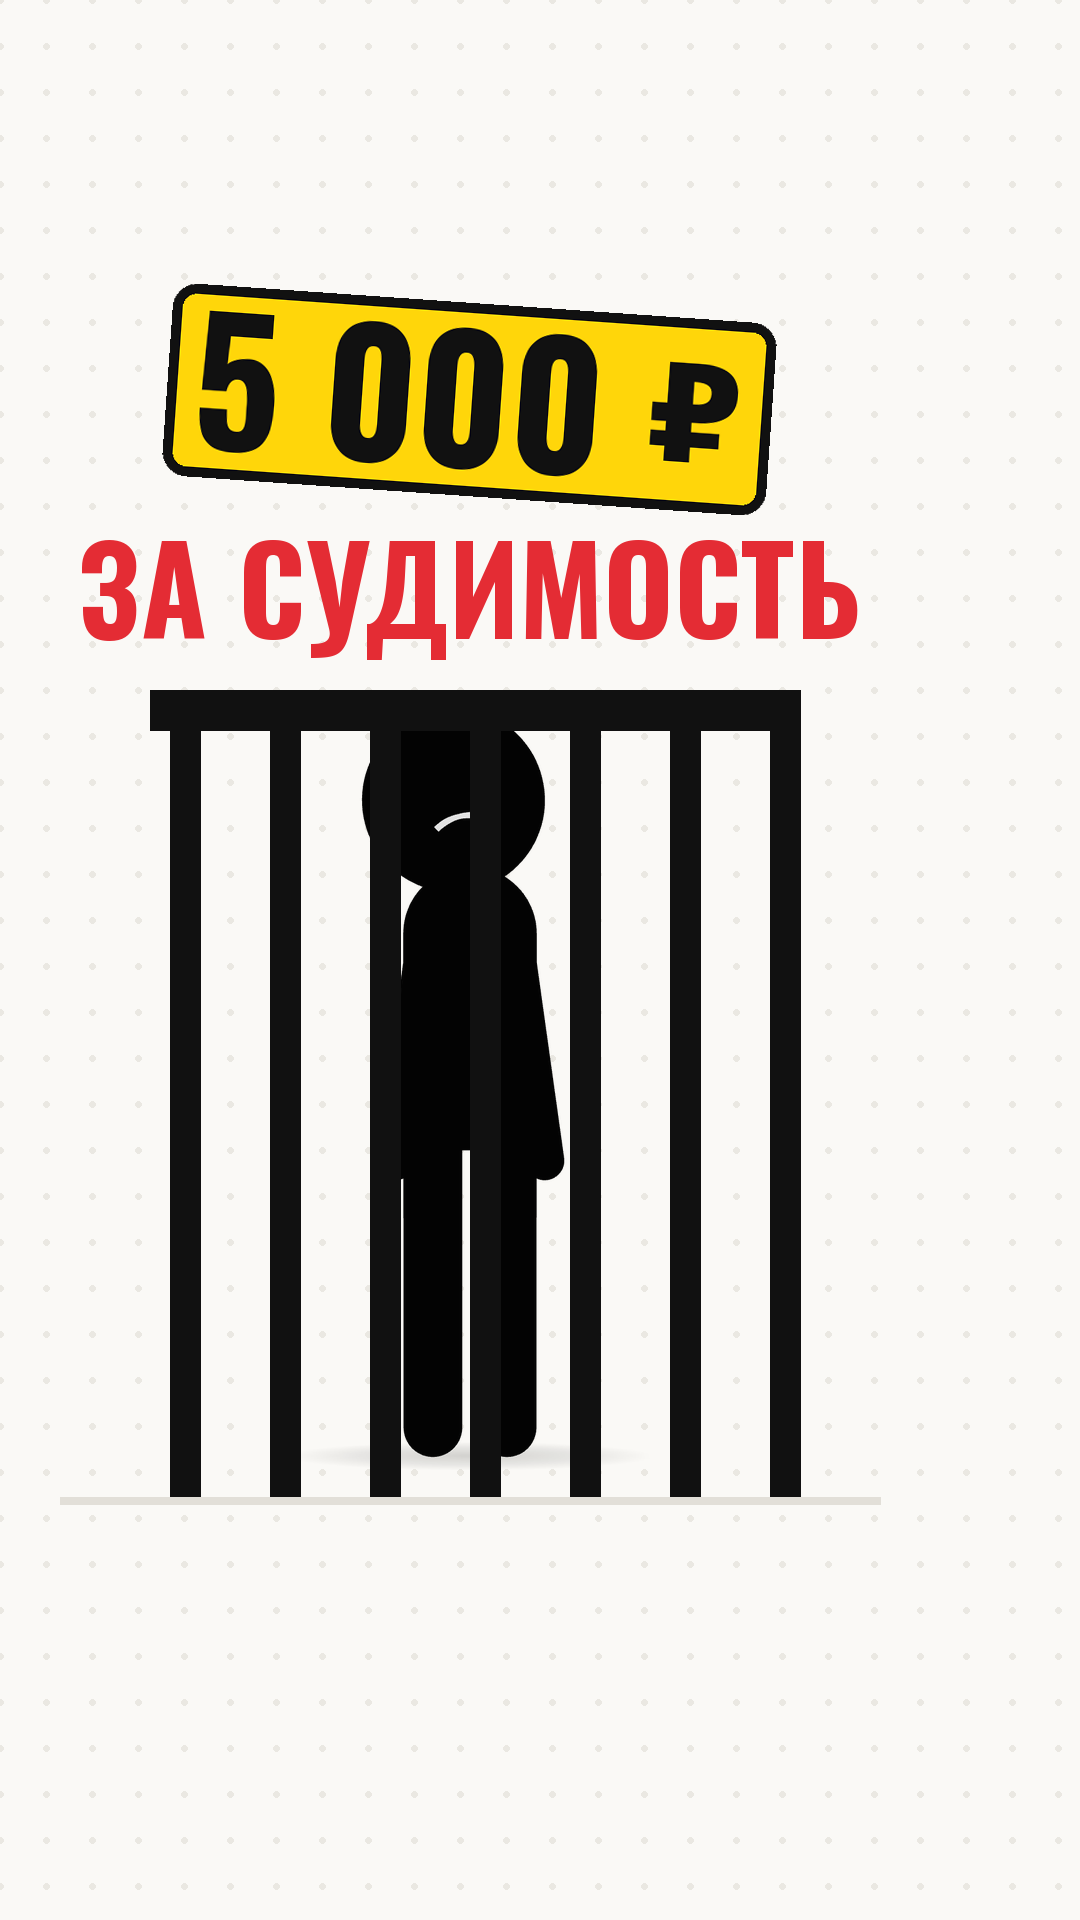
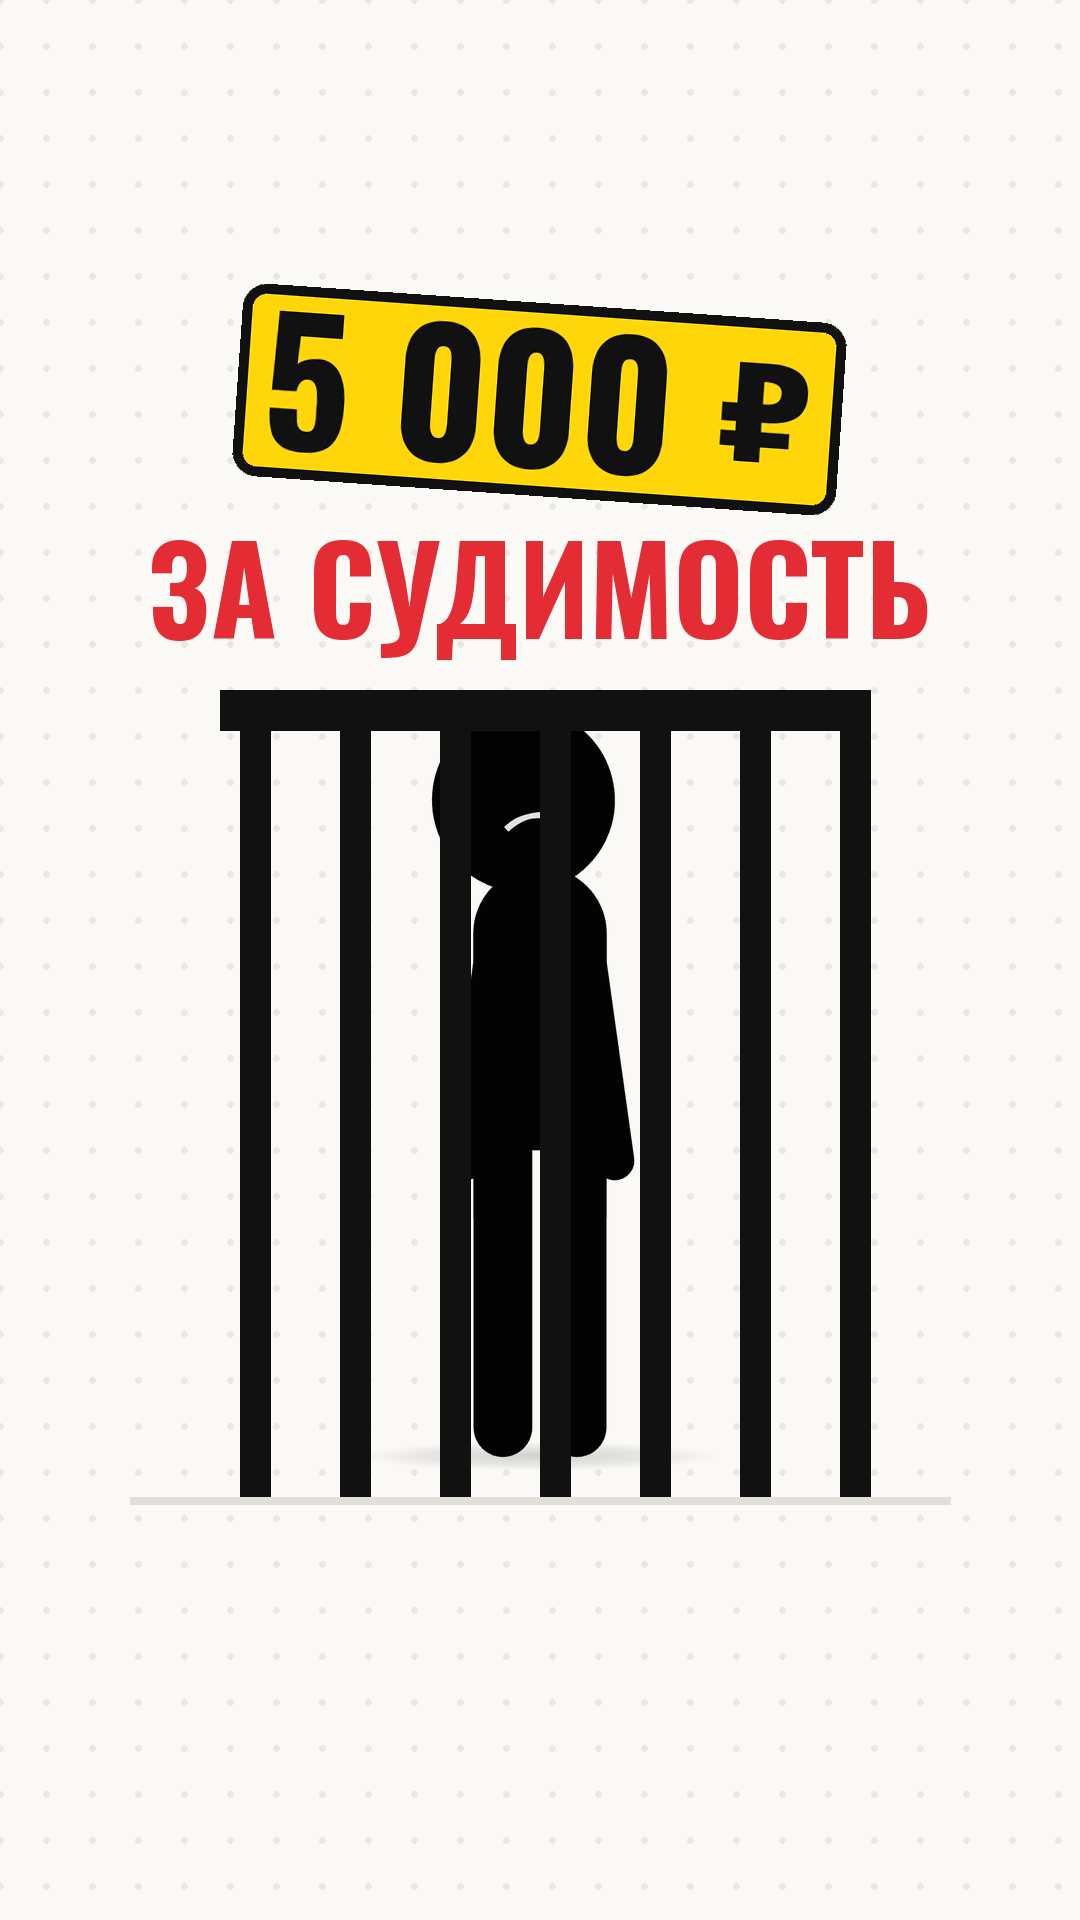
ne-tupi: «Последний барабан» v2 — всё строго по центру кадра
Claude-Session: https://claude.ai/code/session_01FderYxzHoNHH8UQfVKLAfR

Changed region(s): [[0.0611, 0.125, 0.8556, 0.7812]]

diff --git a/ne-tupi/render/drop/kod/compose_d.py b/ne-tupi/render/drop/kod/compose_d.py
@@ -441,7 +441,7 @@ def s_podvoh(C, u, t):
 def s_mln(C, u, t):
     d = ImageDraw.Draw(C); n = int(clamp(u / 1.6) * 900); rnd = random.Random(5)
     for j in range(n):
-        x = 40 + (j % 60) * 15.5 + rnd.random() * 4; y = 300 + (j // 60) * 24
+        x = 5 + (j % 60) * 15.5 + rnd.random() * 4; y = 300 + (j // 60) * 24
         if y > 690: break
         d.rounded_rectangle([x - 5, y, x + 5, y + 7], radius=2, fill=(40, 40, 44)); d.rectangle([x - 3, y + 2, x - 1, y + 4], fill=YEL)
     v = t - T('миллион'); val = roll(v, 0, 1_200_000, 0.9) if v > 0 else 0
@@ -556,8 +556,8 @@ def disc_img(text):
 D1 = 'ВСЕ ПЕРСОНАЖИ ВЫМЫШЛЕНЫ. РОЛИК ОСНОВАН НА ОТКРЫТЫХ\nИСТОЧНИКАХ И НЕ ЯВЛЯЕТСЯ ИНСТРУКЦИЕЙ'
 D2 = 'ВИДЕО ПРЕДУПРЕЖДАЕТ О МОШЕННИЧЕСКИХ СХЕМАХ.\nИСТОЧНИКИ — В ОПИСАНИИ'
 def disclaimer(F, t):
-    if t < 5.0: a = clamp(t / 0.3) * clamp((5.0 - t) / 0.4); put(F, disc_img(D1), 490, 1478, 1, 0, a)
-    elif t > DUR - 3.0: a = clamp((t - DUR + 3.0) / 0.3); put(F, disc_img(D2), 490, 1478, 1, 0, a)
+    if t < 5.0: a = clamp(t / 0.3) * clamp((5.0 - t) / 0.4); put(F, disc_img(D1), 540, 1478, 1, 0, a)
+    elif t > DUR - 3.0: a = clamp((t - DUR + 3.0) / 0.3); put(F, disc_img(D2), 540, 1478, 1, 0, a)
 def shot_at(t):
     i = max(j for j in range(len(SHOTS)) if SHOTS[j]['t'] <= t); return i, SHOTS[i]
 def render_card(t):
@@ -675,9 +675,13 @@ def depth(C, fn, u):
         w, h = int(CW * z), int(CH * z); ox, oy = (w - CW) // 2, (h - CH) // 2
         fg = fg.resize((w, h), Image.BILINEAR).crop((ox, oy, ox + CW, oy + CH)); shadow = shadow.resize((w, h), Image.BILINEAR).crop((ox, oy, ox + CW, oy + CH))
     out.alpha_composite(shadow, (14, 16)); out.alpha_composite(fg); return out
+SHIFT = 70   # сцены рисовались вокруг x=470; сдвиг ставит их строго по центру кадра (540)
+def center(C):
+    out = Image.new('RGBA', (CW, CH)); out.paste(C, (SHIFT, 0))
+    out.paste(C.crop((0, 0, 1, CH)).resize((SHIFT, CH)), (0, 0)); return out
 def card_of(j, t):
     sh = SHOTS[j]; u = max(0.0, t - sh['t']); tt = max(t, sh['t'])
-    C = Image.new('RGBA', (CW, CH), CARD + (255,)); sh['fn'](C, u, tt); return depth(C, sh['fn'], u)
+    C = Image.new('RGBA', (CW, CH), CARD + (255,)); sh['fn'](C, u, tt); return depth(center(C), sh['fn'], u)
 
 def tr_push(A, B, k, t):
     e = eio(k); v = s_(math.pi * k); out = Image.new('RGBA', (CW, CH), CARD + (255,)); x = int(CW * (1 - e))

diff --git a/ne-tupi/render/drop/kod/cover_d.py b/ne-tupi/render/drop/kod/cover_d.py
@@ -7,18 +7,18 @@ def base():
     return C
 # A
 C = base()
-txt(C, 'ПОСЛЕДНИЙ', 470, 380, 150, INK)
-put(C, plate_img('БАРАБАН', 150, YEL, INK, pad=30, r=20), 470, 560, 1, -3)
-washer(C, 600, 1060, 1.45, 0.7, 'card', 1.0, lit=True)
-man(C, 'pointcam', 0.3, 150, 1480, 0.40)
-stains(C, 470, 1150, 260, 0.0)
+txt(C, 'ПОСЛЕДНИЙ', 540, 380, 150, INK)
+put(C, plate_img('БАРАБАН', 150, YEL, INK, pad=30, r=20), 540, 560, 1, -3)
+washer(C, 670, 1060, 1.45, 0.7, 'card', 1.0, lit=True)
+man(C, 'pointcam', 0.3, 230, 1480, 0.40)
+stains(C, 540, 1150, 260, 0.0)
 C.convert('RGB').save('../oblozhka-A.png')
 # B
 C = base()
-put(C, plate_img('5 000 ₽', 170, YEL, INK, pad=34, r=24, border=INK, bw=10), 470, 400, 1, -4)
-txt(C, 'ЗА СУДИМОСТЬ', 470, 600, 120, RED)
-L = Image.new('RGBA', (1080, 1920), (0, 0, 0, 0)); man(L, 'sad', 0.2, 470, 1470, 0.62)
-d = ImageDraw.Draw(L); d.rectangle([150, 690, 790, 730], fill=INK)
-for x in range(170, 791, 100): d.rectangle([x, 690, x + 30, 1500], fill=INK)
-C.alpha_composite(L); ImageDraw.Draw(C).line([60, 1500, 880, 1500], fill=LG, width=8)
+put(C, plate_img('5 000 ₽', 170, YEL, INK, pad=34, r=24, border=INK, bw=10), 540, 400, 1, -4)
+txt(C, 'ЗА СУДИМОСТЬ', 540, 600, 120, RED)
+L = Image.new('RGBA', (1080, 1920), (0, 0, 0, 0)); man(L, 'sad', 0.2, 540, 1470, 0.62)
+d = ImageDraw.Draw(L); d.rectangle([220, 690, 860, 730], fill=INK)
+for x in range(240, 861, 100): d.rectangle([x, 690, x + 30, 1500], fill=INK)
+C.alpha_composite(L); ImageDraw.Draw(C).line([130, 1500, 950, 1500], fill=LG, width=8)
 C.convert('RGB').save('../oblozhka-B.png')
